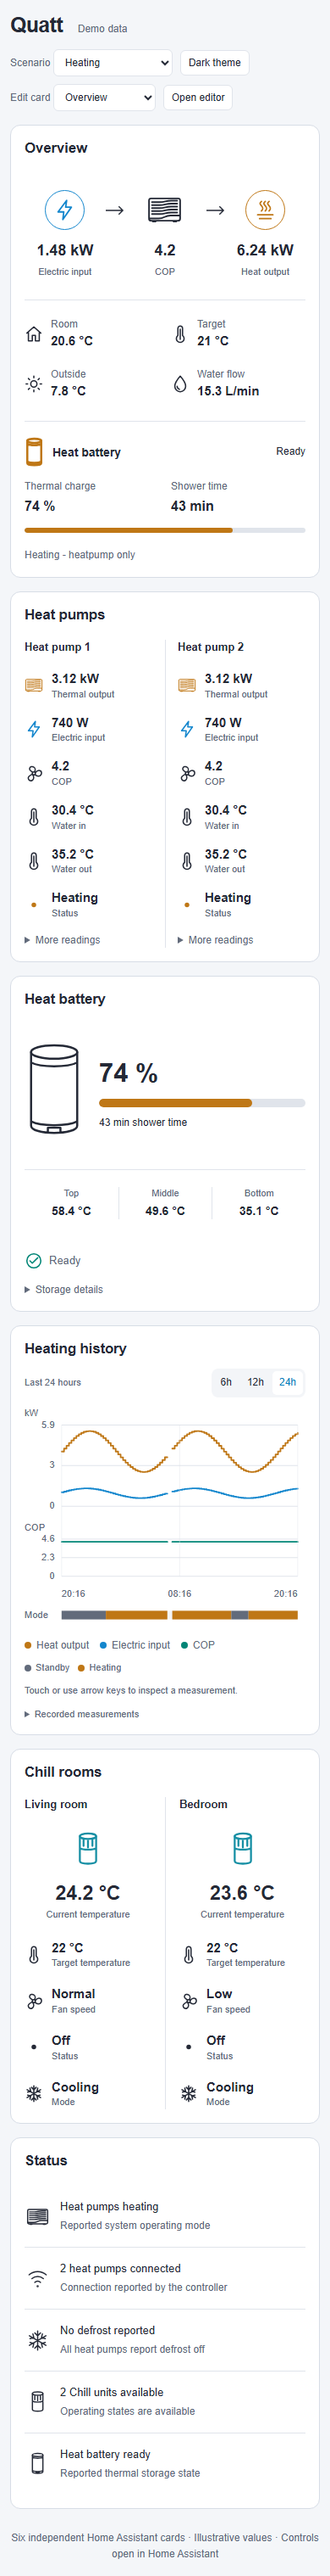
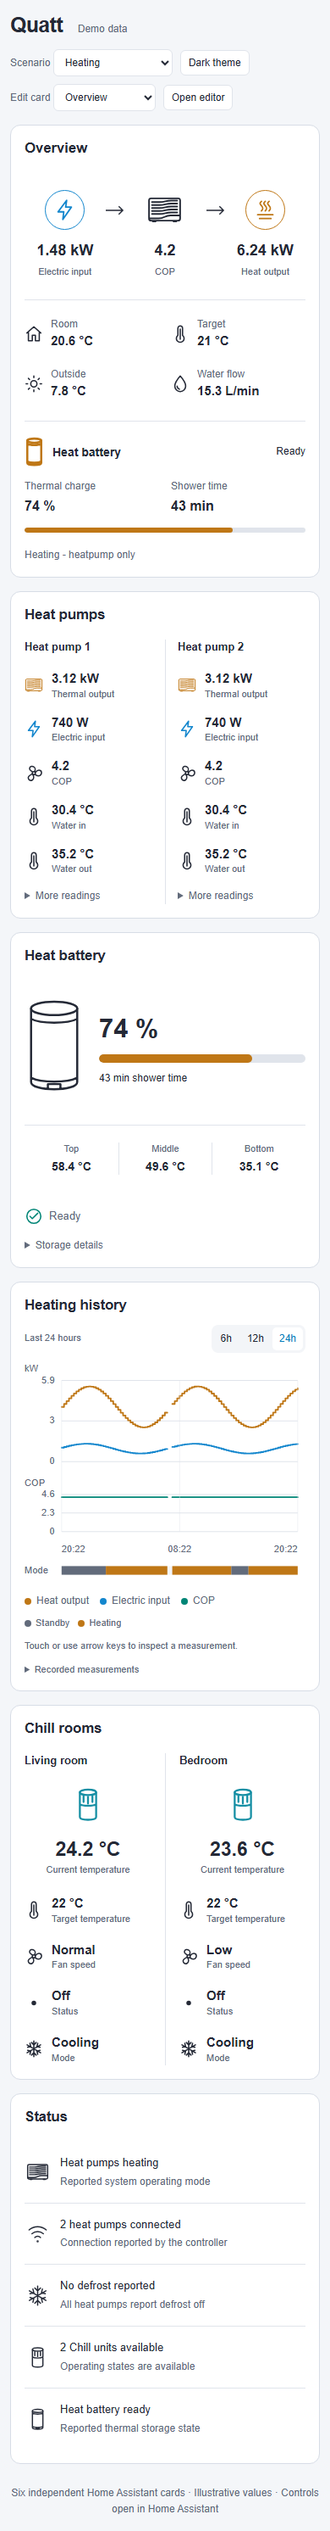
Make heat pump operating status opt-in

diff --git a/src/fields.ts b/src/fields.ts
@@ -9,7 +9,7 @@ export const cardFields:Record<CardType,FieldOption[]>={
     field('heatBattery.charge','Heat battery · charge'),field('heatBattery.showerMinutes','Heat battery · shower time'),field('heatBattery.status','Heat battery · status'),
     field('heatBattery.topTemperature','Heat battery · top temperature',false),field('heatBattery.middleTemperature','Heat battery · middle temperature',false),field('heatBattery.bottomTemperature','Heat battery · bottom temperature',false),
     field('heatBattery.charging','Heat battery · charging',false),field('heatBattery.hotWater','Heat battery · hot-water use',false),field('heatCharger.heaterPower','Heat charger · electric input',false),field('heatCharger.waterPressure','Heat charger · water pressure',false)],
-  'custom:quatt-heat-pump-card': [...power,field('returnTemperature','Water in'),field('supplyTemperature','Water out'),field('status','Operating status'),field('compressorSpeed','Compressor speed'),field('outdoorTemperature','Outside temperature')],
+  'custom:quatt-heat-pump-card': [...power,field('returnTemperature','Water in'),field('supplyTemperature','Water out'),field('status','Operating status',false),field('compressorSpeed','Compressor speed'),field('outdoorTemperature','Outside temperature')],
   'custom:quatt-heat-battery-card': [field('charge','Thermal charge'),field('showerMinutes','Shower time'),field('topTemperature','Top temperature'),field('middleTemperature','Middle temperature'),field('bottomTemperature','Bottom temperature'),field('status','Operating status'),field('heaterPower','Charger input'),field('waterPressure','Water pressure'),field('charging','Storage charging'),field('hotWater','Hot-water use'),field('boost','Boost')],
   'custom:quatt-chill-card': [field('roomTemperature','Room temperature'),field('targetTemperature','Target temperature'),field('fanMode','Fan speed'),field('status','Operating status'),field('mode','Operating mode'),field('waterWarning','Water tank warning')],
   'custom:quatt-history-card': [...power,field('mode','Operating-mode timeline')],

diff --git a/src/index.ts b/src/index.ts
@@ -21,4 +21,4 @@ for(const [type,element,name,description] of cards) {
   if(!window.customCards.some(card=>card.type===type)) window.customCards.push({type,name,description,preview:true});
 }
 if(!customElements.get('quatt-card-editor')) customElements.define('quatt-card-editor',QuattCardEditor);
-console.info('QUATT CARDS 0.4.1 · Heating insights and Chill controls');
+console.info('QUATT CARDS 0.4.2 · Heating insights and Chill controls');

diff --git a/README.md b/README.md
@@ -48,14 +48,14 @@ HACS normally registers the module automatically. If your resources are managed 
 
 1. Build the asset with `npm ci` and `npm run build`.
 2. Copy `dist/quatt-cards.js` to `/config/www/quatt-cards.js` on Home Assistant.
-3. Add a dashboard resource with URL `/local/quatt-cards.js?v=0.4.1` and resource type **JavaScript Module**.
+3. Add a dashboard resource with URL `/local/quatt-cards.js?v=0.4.2` and resource type **JavaScript Module**.
 4. Reload the browser. In **Add card**, search for **Quatt**.
 
 For dashboards with YAML-managed resources:
 
 ```yaml
 resources:
-  - url: /local/quatt-cards.js?v=0.4.1
+  - url: /local/quatt-cards.js?v=0.4.2
     type: module
 ```
 
@@ -178,12 +178,14 @@ fields:
   heatCharger.heaterPower: true
 ```
 
+Heat pump **Operating status** is off by default because some installations do not report it. Enable it under **Displayed fields**, or set `fields: {status: true}`. An existing explicit `status: true` remains enabled; **Reset displayed fields** restores the off default.
+
 Omitted keys use their defaults. An empty `fields: {}` also uses defaults. Explicit booleans are required; unsupported keys are rejected. Entity overrides choose reading sources, while `fields` chooses visibility. Heat-battery overview values are discovered from the battery/charger devices, independently of system-reading overrides.
 
 | Card | Field keys |
 | --- | --- |
 | `custom:quatt-overview-card` | `electricPower`, `cop`, `heatPower`, `roomTemperature`, `targetTemperature`, `outdoorTemperature`, `flowRate`, `supplyTemperature` (off by default), `mode`, `heatBattery.charge`, `heatBattery.showerMinutes`, `heatBattery.status`, `heatBattery.topTemperature` (off by default), `heatBattery.middleTemperature` (off by default), `heatBattery.bottomTemperature` (off by default), `heatBattery.charging` (off by default), `heatBattery.hotWater` (off by default), `heatCharger.heaterPower` (off by default), `heatCharger.waterPressure` (off by default) |
-| `custom:quatt-heat-pump-card` | `electricPower`, `cop`, `heatPower`, `returnTemperature`, `supplyTemperature`, `status`, `compressorSpeed`, `outdoorTemperature` |
+| `custom:quatt-heat-pump-card` | `electricPower`, `cop`, `heatPower`, `returnTemperature`, `supplyTemperature`, `status` (off by default), `compressorSpeed`, `outdoorTemperature` |
 | `custom:quatt-heat-battery-card` | `charge`, `showerMinutes`, `topTemperature`, `middleTemperature`, `bottomTemperature`, `status`, `heaterPower`, `waterPressure`, `charging`, `hotWater`, `boost` |
 | `custom:quatt-chill-card` | `roomTemperature`, `targetTemperature`, `fanMode`, `status`, `mode`, `waterWarning` |
 | `custom:quatt-history-card` | `electricPower`, `cop`, `heatPower`, `mode` |

diff --git a/CHANGELOG.md b/CHANGELOG.md
@@ -1,5 +1,10 @@
 # Changelog
 
+## 0.4.2
+
+- Hide heat pump Operating status by default because it is not reported by every installation.
+- Keep it available as an opt-in checkbox under Displayed fields and through `fields.status: true`; explicit existing selections are preserved.
+
 ## 0.4.1
 
 - Center each Chill equipment icon and make it open that unit’s native Home Assistant controls.
